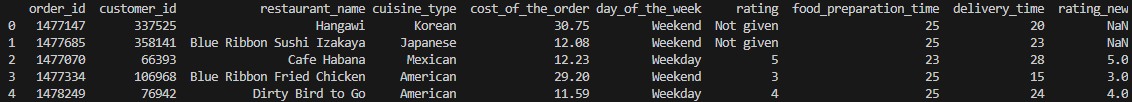
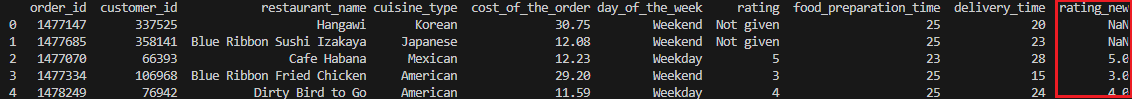
Lanjutin sampai rating new

diff --git a/README.md b/README.md
@@ -36,7 +36,9 @@ print(df.isnull().sum())
 ![nullvalues](pic/check%20null%20value%20(2).png)
 
 Dari gambar diatas, setelah dilakukan pengecekan tidak terdapat nilai null pada setiap kolom di dataframe.
+
 ---
+
 ### Cek Kolom
 "Kolom restaurant_name"
 ```
@@ -70,7 +72,7 @@ old_name = ['Big Wong Restaurant \x8c_¤¾Ñ¼','Empanada Mama (closed)',
             'CafÌ© China', 'Dirty Bird To Go (archived)']
 
 new_name = ['Big Wong Restaurant', 'Empanada Mama', 'Chipotle Mexican Grill', "Joe's Shanghai", 'Cafe China', 'Dirty Bird To Go']
-#print(new_name)
+print(new_name)
 
 df['restaurant_name'] = df['restaurant_name'].replace(dict(zip(old_name, new_name)))
 ```
@@ -81,6 +83,39 @@ Berikut hasil setelah dilakukan pergantian nama restoran
 
 "Kolom cuisine_type"
 ```
-df.cuisine_type.unique()
+print(df.cuisine_type.unique())
 ```
 ![cuisinetype](pic/cek%20cuisine%20(6).png)
+
+Terdapat 14 jenis masakan pada kolom cuisine_type.
+
+---
+
+"Kolom day_of_the_week"
+```
+#print(df.day_of_the_week.unique())
+```
+![dayofweek](pic/cek%20day%20of%20week(7).png)
+
+Pada kolom day_of_the_week hanya memiliki 2 data yaitu weekday dan weekend.
+
+---
+
+"Kolom rating"
+```
+#Check rating
+#print(df.rating.value_counts(normalize=True) * 100)
+```
+![rating](pic/persentage%20rating%20(6).png)
+
+Hasil dari pengecekan kolom rating, cukup banyak pesanan yang tidak diberikan ulasan atau penilaian yaitu sebesar 38,7%, dikarenakan hal tersebut saya akan membuat kolom baru dengan nama rating_new dimana untuk kolom yang berisi "Not given" akan saya ganti menjadi nilai null dengan kode berikut:
+
+```
+df['rating_new'] = df['rating'].replace('Not given', np.nan).astype(float)
+df['rating_new'].isnull().sum()
+```
+![ratingnew](pic/add%20rating%20new%20(7).png)
+
+Kolom rating_new sudah dibuat dimana untuk nilai "Not given" sudah diubah menjadi NaN (Not a Number).
+
+---
